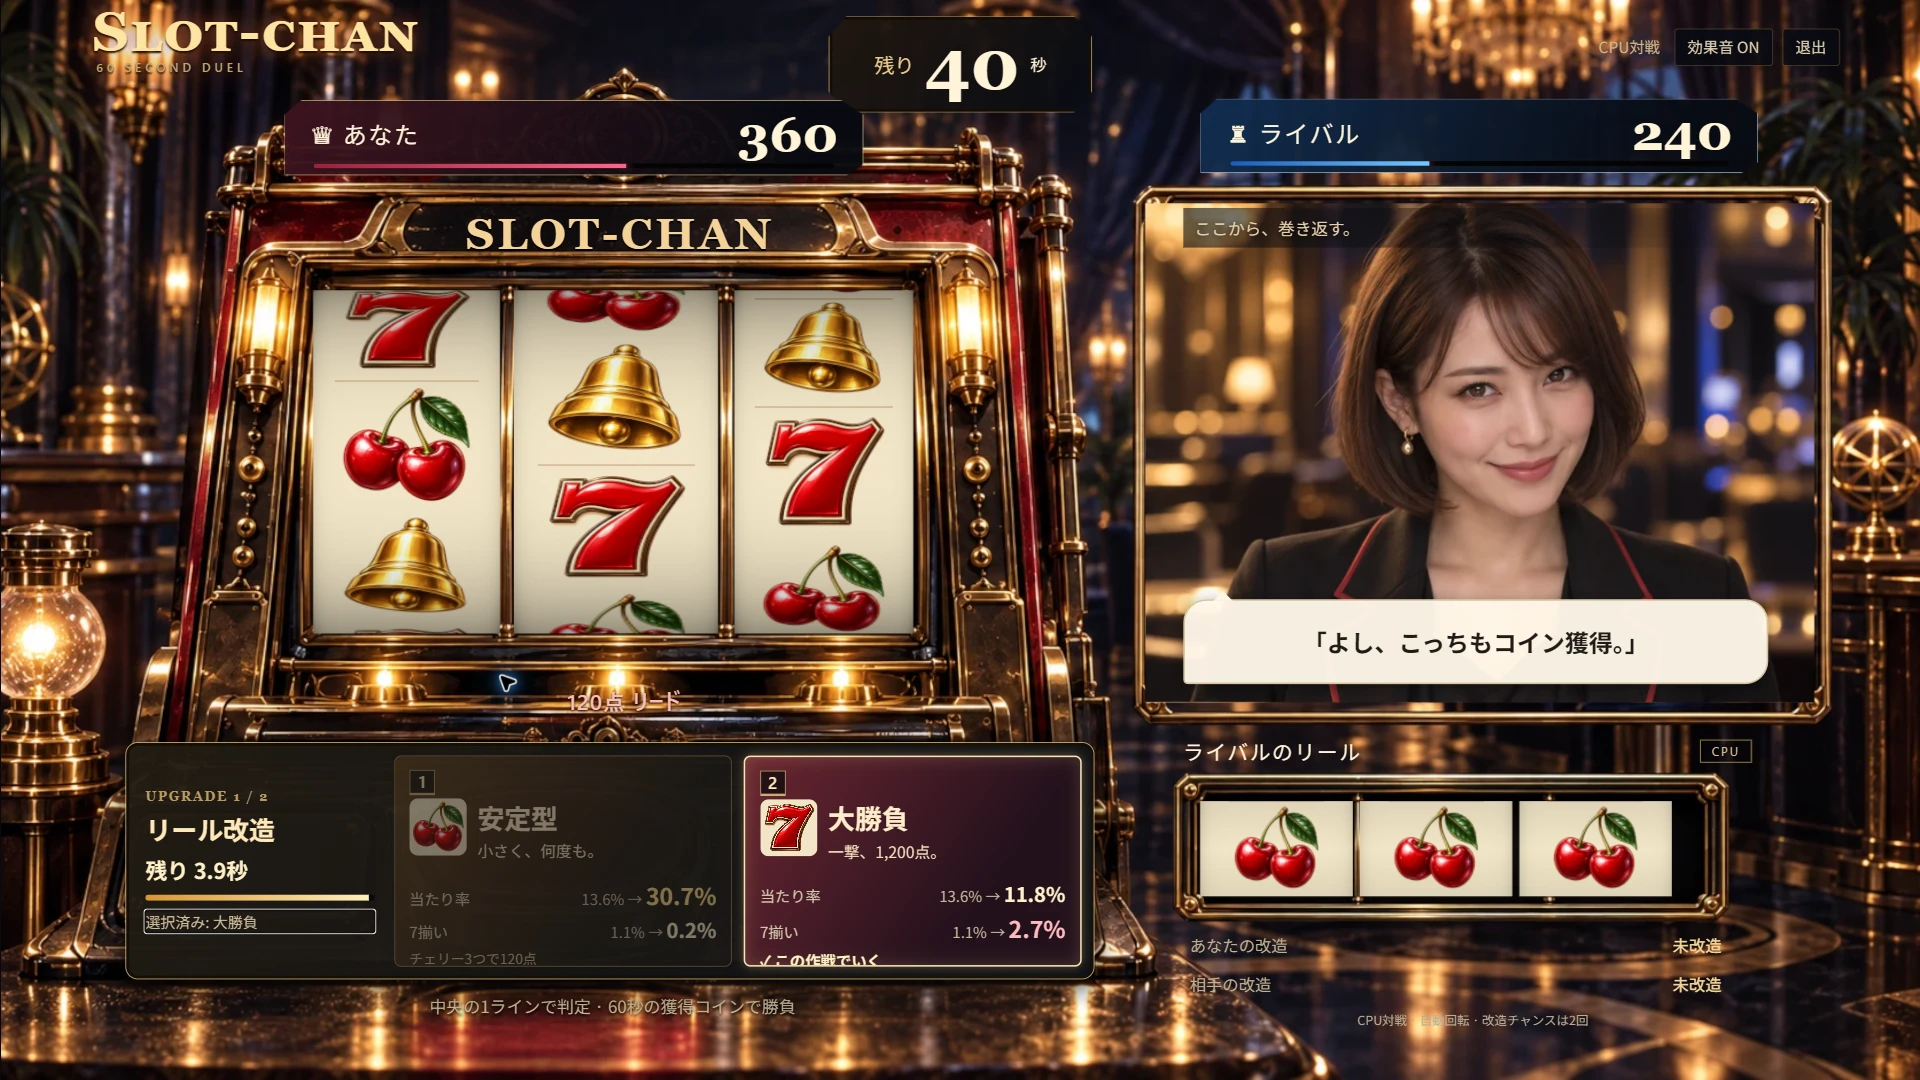
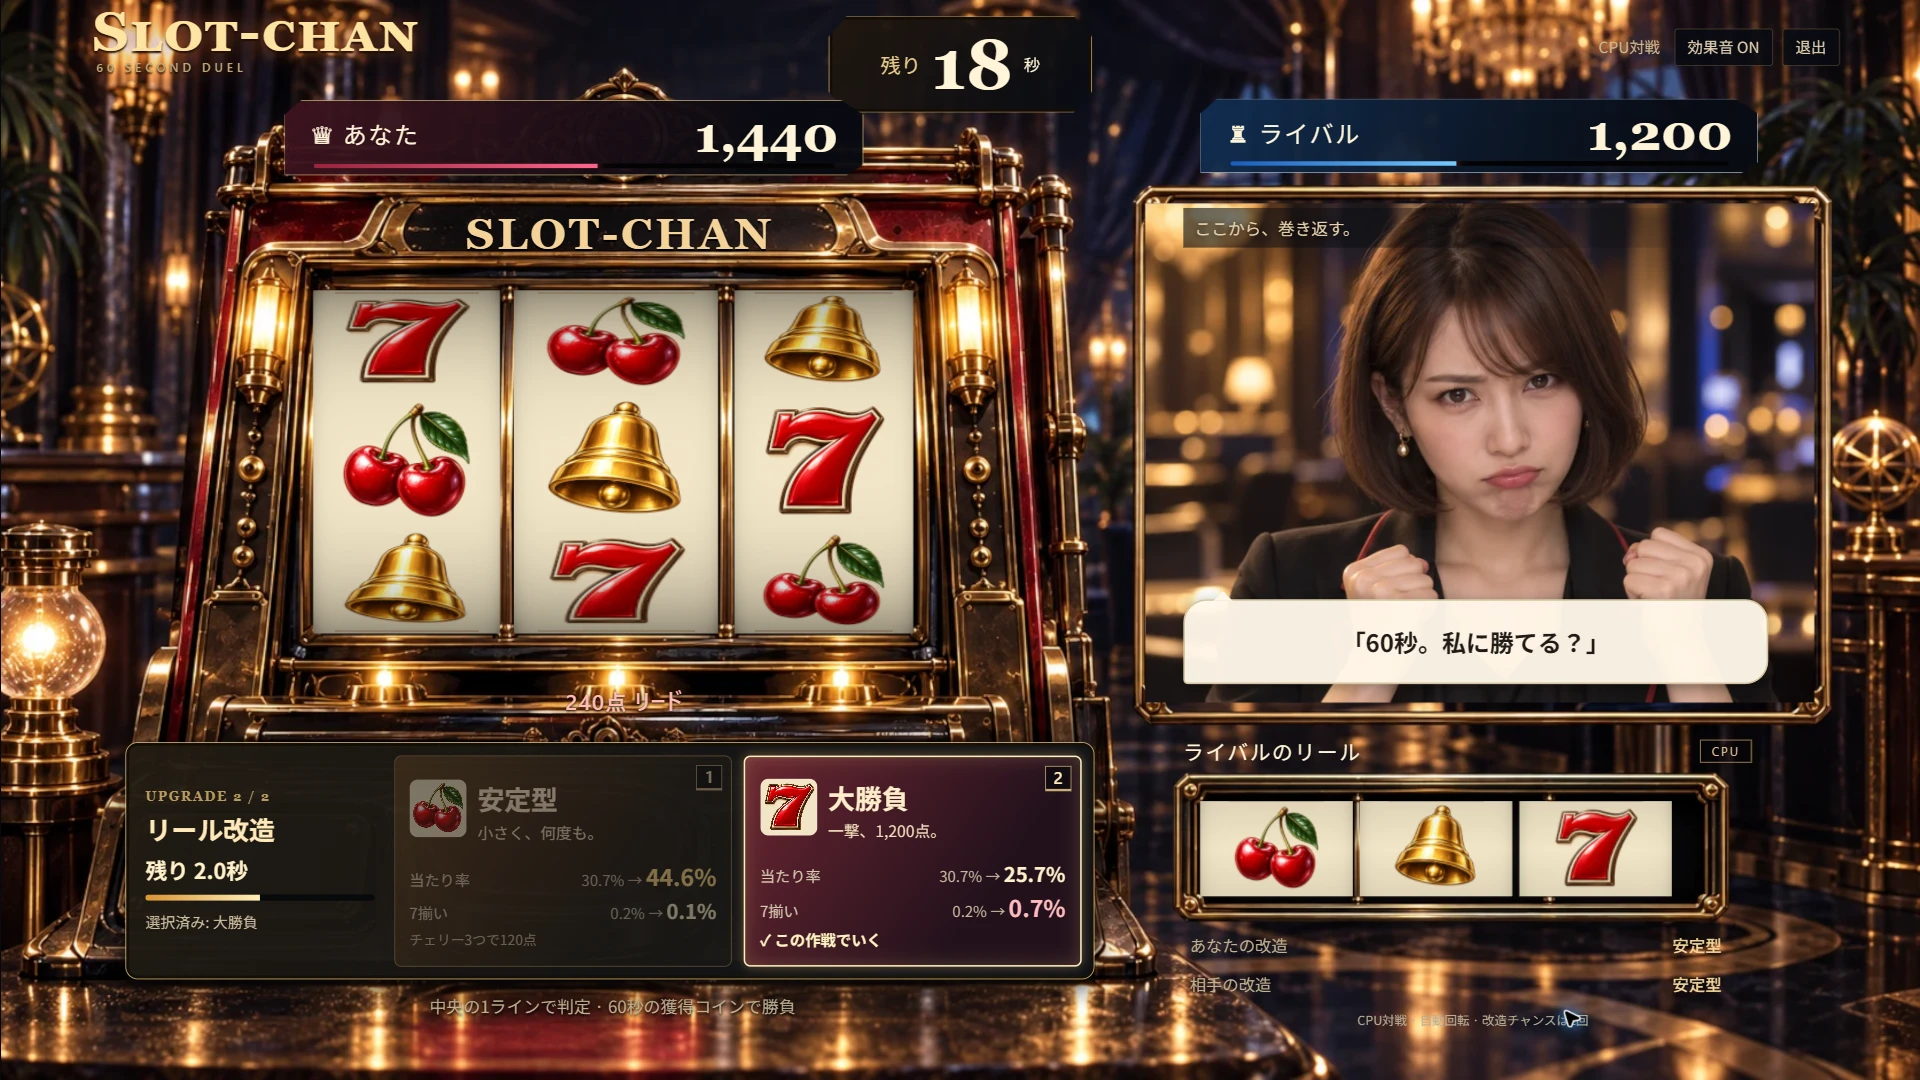
fix: 改造キーを右上へ置き選択表示の見切れを解消

diff --git a/src/view/DuelPanels.css b/src/view/DuelPanels.css
@@ -26,7 +26,7 @@
 .upgrade button>strong { display: block; font-size: 1.4cqw; margin: .1cqw 1.6cqw .2cqw 0; }
 .upgrade button>small { display: block; line-height: 1.4; }
 .upgrade button .upgrade-pitch { font-size: .82cqw; color: #f4dfbd; }
-.upgrade button kbd { top: .45cqw; right: .45cqw; display: grid; place-items: center; width: 1.35cqw; height: 1.35cqw; padding: 0; font: 700 .9cqw/1 system-ui; color: #ffe9b5; background: #08080bae; border: 1px solid #c8ad75; border-bottom-width: 3px; }
+.upgrade button kbd { position: absolute; top: .45cqw; right: .45cqw; display: grid; place-items: center; width: 1.35cqw; height: 1.35cqw; padding: 0; font: 700 .9cqw/1 system-ui; color: #ffe9b5; background: #08080bae; border: 1px solid #c8ad75; border-bottom-width: 3px; }
 .upgrade .upgrade-odds { display: grid; gap: .12cqw; clear: both; padding-top: .45cqw; margin: .35cqw 0 .25cqw; }
 .upgrade .upgrade-odds>span { display: flex; align-items: baseline; justify-content: space-between; gap: .25cqw; font-size: .79cqw; line-height: 1.5; color: #d6c7b0; }
 .upgrade .upgrade-odds strong { display: inline; white-space: nowrap; font-size: 1.05cqw; color: #fff0c9; }

diff --git a/docs/duel-polish-verification.md b/docs/duel-polish-verification.md
@@ -11,7 +11,7 @@
 
 [勝利・金貨](evidence/duel-polish/victory-1280.webp)、[敗北](evidence/duel-polish/defeat-1280.webp)、[引き分け](evidence/duel-polish/draw-1280.webp)、[改造選択](evidence/duel-polish/upgrade-1280.webp) は1280×720のDEV表示。固定結果は本番に含まれない。[表示値](evidence/duel-polish/fixture-cases.json)も記録した。
 
-1920×1080の通常CPU対戦では、予告中のキー2を受け付けず、20秒に大勝負、40秒に安定型を選択。カード内の「この作戦でいく」を確認した。[選択直後](evidence/duel-polish/selected-1920.webp)。
+1920×1080の通常CPU対戦では、予告中のキー2を受け付けず、20秒に大勝負、40秒に安定型を選択。カード内の「この作戦でいく」を確認した。[最終調整後の選択表示（DEV）](evidence/duel-polish/selected-1920.webp)。
 
 60秒後は720対240の勝利。プレイヤーはチェリー480点＋ベル240点、ライバルはチェリー240点で表示合計と一致。内訳を開いたパネル下端760.7px、再戦ボタン上端787.4pxで重なりなし。[結果の内訳](evidence/duel-polish/local-details-1920.webp)。再戦で0点・60秒・内訳0行・折りたたみ初期化、Enterでカウントダウン取消を確認。[操作記録](evidence/duel-polish/local-flow.json)。JavaScriptエラー0。
 
